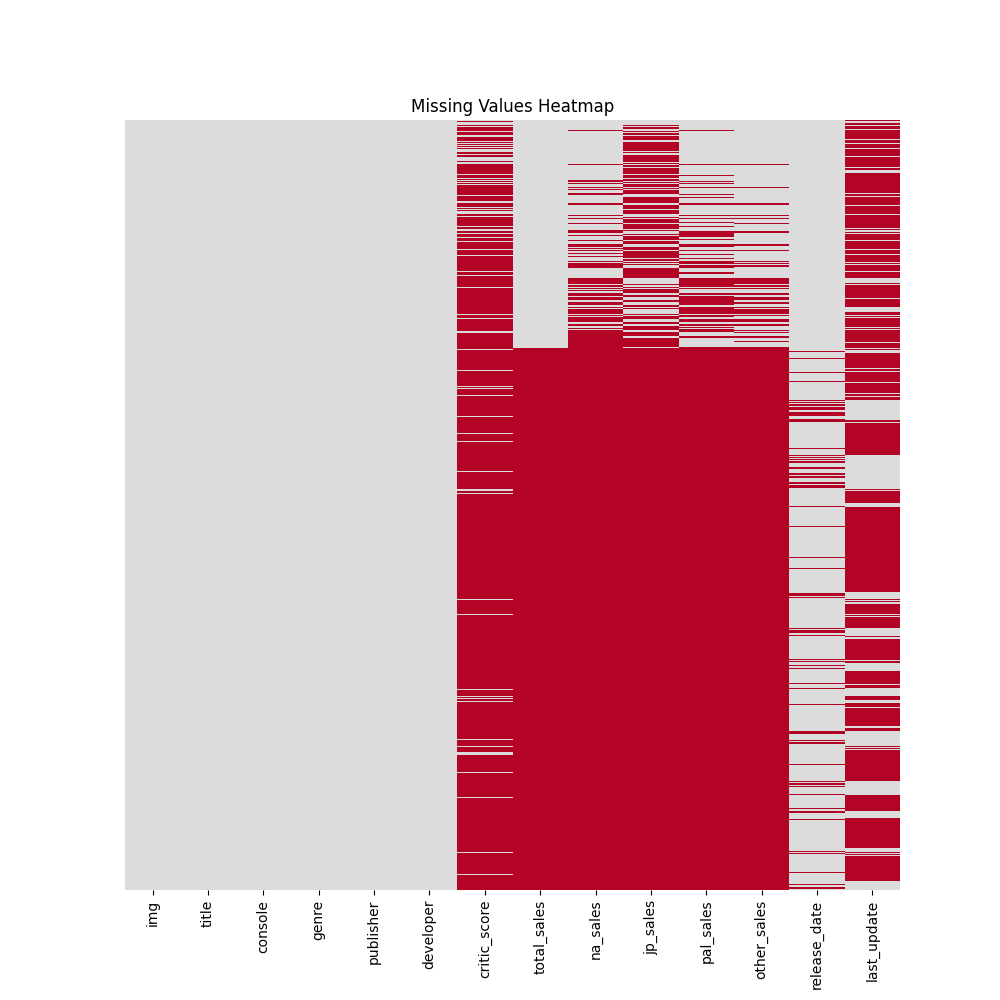
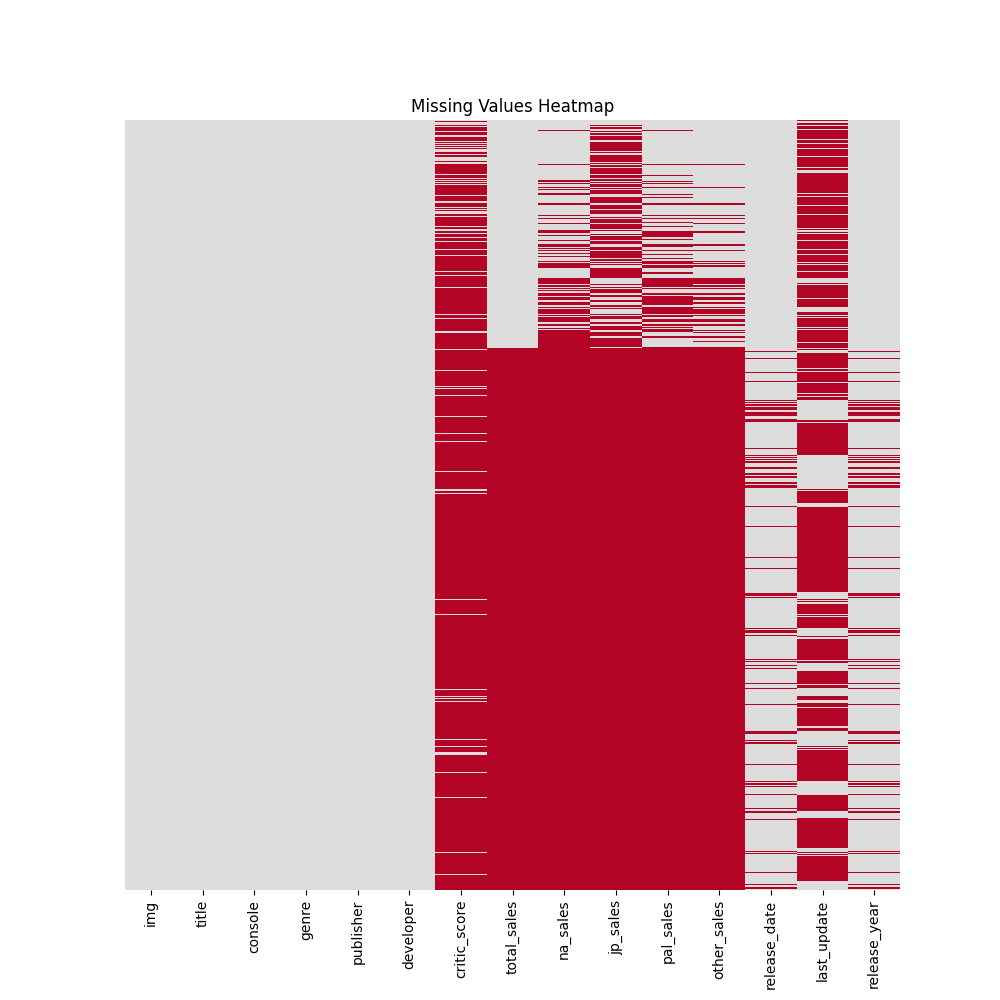
Update 1_Structure.py to add a release_year column.

Changed region(s): [[0.248, 0.124, 0.899, 0.992], [0.186, 0.899, 0.217, 0.93]]

diff --git a/1_Structure.py b/1_Structure.py
@@ -17,6 +17,9 @@ df = pd.read_csv('./data/raw/vgchartz-2024.csv')
 df['release_date'] = pd.to_datetime(df['release_date'])
 df['last_update'] = pd.to_datetime(df['last_update'])
 
+# Datetime could be informative, but they are not very easy to manipulate with, we will create a column keeping only release year
+df['release_year'] = df['release_date'].dt.year.astype('float64')
+
 # Get some information about our dataset
 df.info()
 df.describe()
